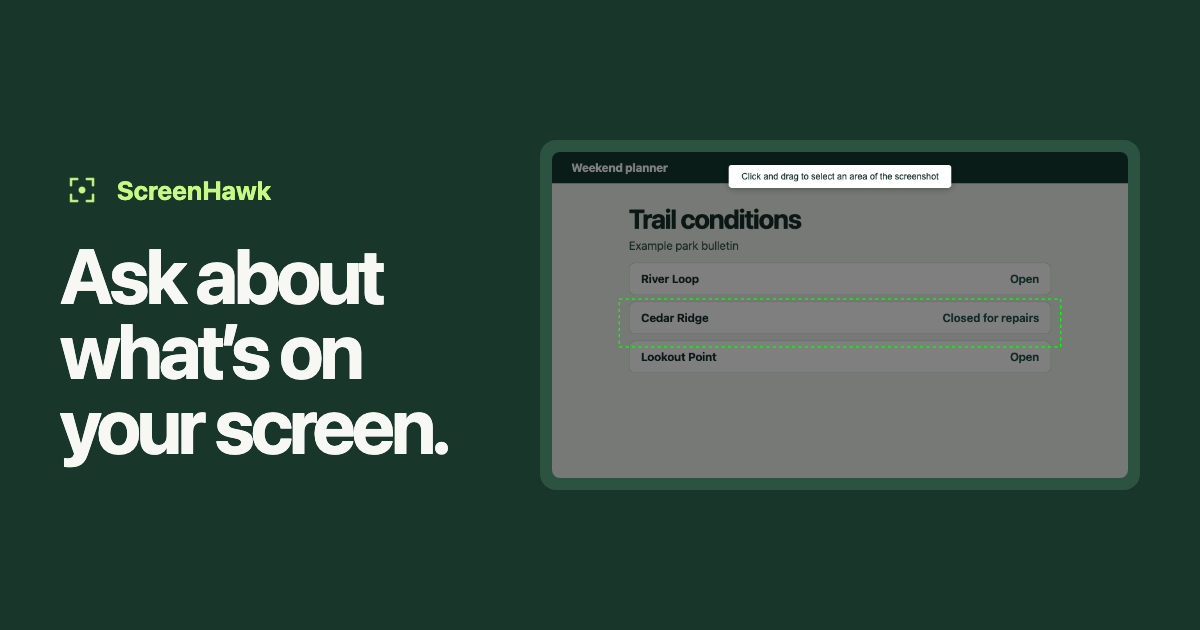
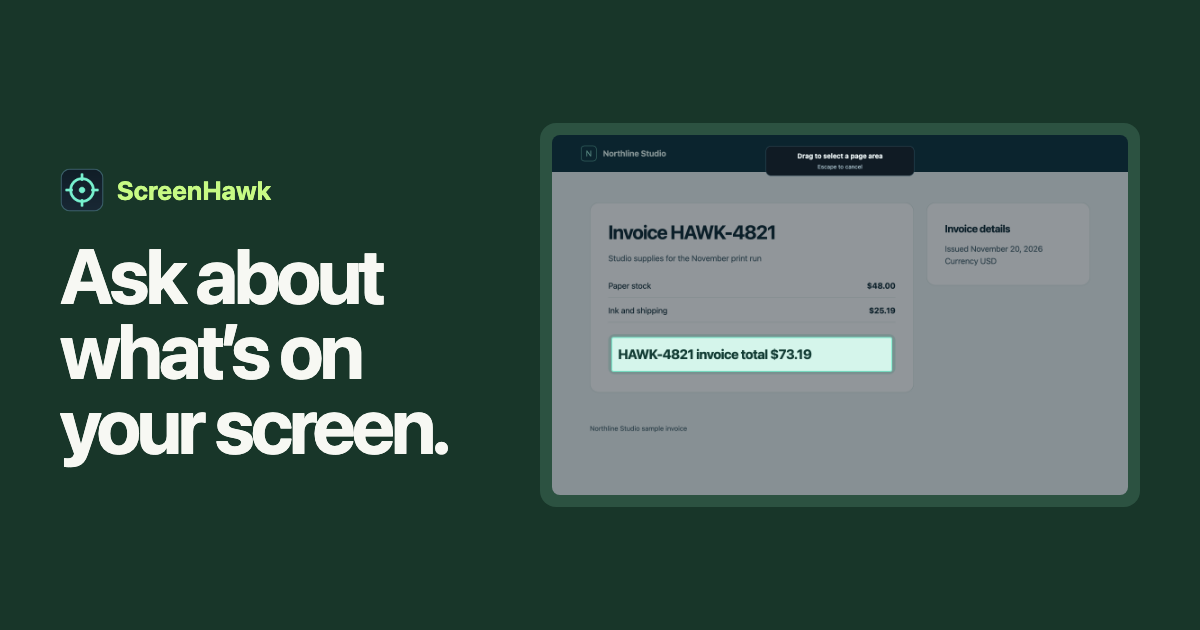
Align the ScreenHawk site with the release extension

Changed region(s): [[0.4317, 0.181, 0.9558, 0.8143], [0.0308, 0.2714, 0.0925, 0.3317]]

diff --git a/site/index.html b/site/index.html
@@ -47,7 +47,7 @@
       <figure class="shot">
         <div class="window">
           <div class="window-bar" aria-hidden="true"><span></span><span></span><span></span></div>
-          <img src="/assets/select.png" width="900" height="510" alt="ScreenHawk selection box around the Cedar Ridge trail status on an example page" fetchpriority="high">
+          <img src="/assets/screenshots/01-area-select.png" width="1280" height="800" alt="ScreenHawk selection box on an example page" fetchpriority="high">
         </div>
         <figcaption>Drag a box around the part of the page you want to ask about.</figcaption>
       </figure>
@@ -68,17 +68,37 @@
       <div class="wrap split">
         <div class="copy">
           <h2>Bring your own OpenAI key</h2>
-          <p>Save your OpenAI API key in ScreenHawk’s options. The key stays in local extension storage. Your browser uses it to send the selected image and your question directly to OpenAI when you submit.</p>
+          <p>Save your OpenAI API key in ScreenHawk’s options. The key stays in local extension storage. The default model is GPT-4.1 nano. Your browser uses it to send the selected image and your question directly to OpenAI when you submit.</p>
           <h3>What does it cost?</h3>
-          <p>You pay OpenAI directly, usually fractions of a cent for a small selection and short question. The model, image size, and answer length affect the price. See <a href="https://openai.com/api/pricing/">OpenAI API pricing</a>.</p>
+          <p>You pay OpenAI directly, based on your API usage. The model, image size, and answer length affect the price. See <a href="https://openai.com/api/pricing/">OpenAI API pricing</a>.</p>
         </div>
         <figure class="shot">
           <div class="window">
             <div class="window-bar" aria-hidden="true"><span></span><span></span><span></span></div>
-            <img src="/assets/question.png" width="900" height="510" alt="ScreenHawk question dialog containing the question Which of these trails is closed?" loading="lazy">
+            <img src="/assets/screenshots/02-prompt.png" width="1280" height="800" alt="ScreenHawk question dialog over the selected area" loading="lazy">
           </div>
           <figcaption>Type your question after making a selection.</figcaption>
         </figure>
+      </div>
+    </section>
+
+    <section class="section" aria-labelledby="extension-views">
+      <div class="wrap">
+        <h2 id="extension-views">Answers and settings</h2>
+        <div class="screenshots">
+          <figure class="shot">
+            <div class="window"><img src="/assets/screenshots/03-answer.png" width="1280" height="800" alt="An answer displayed over the page where the question started" loading="lazy"></div>
+            <figcaption>Read the answer on the same page.</figcaption>
+          </figure>
+          <figure class="shot">
+            <div class="window"><img src="/assets/screenshots/04-options.png" width="1280" height="800" alt="ScreenHawk options with a masked key field and a model field" loading="lazy"></div>
+            <figcaption>Set your API key and model.</figcaption>
+          </figure>
+          <figure class="shot">
+            <div class="window"><img src="/assets/screenshots/05-shortcut.png" width="1280" height="800" alt="Chrome’s extension shortcuts page showing the ScreenHawk capture command" loading="lazy"></div>
+            <figcaption>Set a capture shortcut in Chrome.</figcaption>
+          </figure>
+        </div>
       </div>
     </section>
 

diff --git a/site/privacy.html b/site/privacy.html
@@ -38,19 +38,18 @@
     <p>Rodney Gainous Jr publishes ScreenHawk. ScreenHawk has no account, developer server, or analytics. This website uses no analytics or cookies.</p>
 
     <h2>On your device</h2>
-    <p>ScreenHawk stores your OpenAI API key only on this device in <code>chrome.storage.local</code>. Your browser captures the visible tab and crops the image to the area you select.</p>
+    <p>ScreenHawk stores your own OpenAI API key and model choice on this device in <code>chrome.storage.local</code>. The default model is <code>gpt-4.1-nano</code>. When you start a capture, Chrome captures the visible tab. ScreenHawk crops the image to the area you select on your device.</p>
 
     <h2>What OpenAI receives</h2>
-    <p>When you submit a question, your browser sends the selected screenshot area and your question directly to <code>api.openai.com</code> using your own API key. The response appears on your tab. <a href="https://openai.com/policies/privacy-policy/">OpenAI’s privacy policy</a> applies to processing by OpenAI.</p>
+    <p>When you submit, ScreenHawk sends only the selected crop and your typed question as content directly to <code>api.openai.com</code>. The request includes your chosen model and uses your own API key for authorization. The answer appears only on the page where you started the capture. <a href="https://openai.com/policies/privacy-policy/">OpenAI’s privacy policy</a> applies to processing by OpenAI.</p>
     <p>Rodney Gainous Jr does not receive, sell, or share your key, screenshots, or questions.</p>
 
     <h2>Chrome permissions</h2>
     <ul id="permissions">
       <li><strong><code>activeTab</code></strong> gives ScreenHawk temporary access to the tab where you start a capture.</li>
-      <li><strong><code>scripting</code></strong> lets ScreenHawk open the selection and question interface on a tab.</li>
-      <li><strong><code>tabs</code></strong> lets ScreenHawk find the active tab for capture and show the answer there.</li>
-      <li><strong><code>storage</code></strong> saves your OpenAI API key locally.</li>
-      <li><strong><code>&lt;all_urls&gt;</code></strong> lets the selection interface run on regular web pages and allows requests to OpenAI.</li>
+      <li><strong><code>scripting</code></strong> loads the selection, question, and answer interface on demand after you start a capture.</li>
+      <li><strong><code>storage</code></strong> saves your OpenAI API key and model choice on this device.</li>
+      <li><strong><code>https://api.openai.com/*</code></strong> lets ScreenHawk send your submitted crop and question directly to OpenAI.</li>
     </ul>
 
     <h2>Remove your data</h2>

diff --git a/site/styles.css b/site/styles.css
@@ -51,6 +51,7 @@ figcaption { padding: .6rem .2rem 0; color: var(--muted); font-size: .92rem; }
 .steps li::before { content: counter(steps); display: grid; place-items: center; width: 2rem; height: 2rem; border-radius: 50%; background: var(--dark); color: white; margin-bottom: 1rem; font-weight: 750; }
 .steps p { margin-top: .55rem; color: var(--muted); }
 .split { display: grid; grid-template-columns: minmax(0, 1fr) minmax(0, 1fr); gap: 2.5rem 4rem; align-items: center; }
+.screenshots { display: grid; grid-template-columns: repeat(3, minmax(0, 1fr)); gap: 1.15rem; margin-top: 1.55rem; }
 .copy p, .copy h3 { margin-top: 1rem; }
 .copy p { color: var(--muted); }
 .faq { max-width: 48rem; }
@@ -71,7 +72,7 @@ code { font-family: ui-monospace, SFMono-Regular, Consolas, monospace; overflow-
 .footer { background: #eaf0e6; border-top: 1px solid var(--line); padding-block: 1.55rem; }
 .footer p { color: var(--muted); }
 @media (max-width: 49rem) {
-  .hero, .split { grid-template-columns: minmax(0, 1fr); }
+  .hero, .split, .screenshots { grid-template-columns: minmax(0, 1fr); }
   .hero h1 { max-width: 13ch; }
   .steps { grid-template-columns: minmax(0, 1fr); }
 }

diff --git a/site/permissions.md b/site/permissions.md
@@ -1,0 +1,10 @@
+# ScreenHawk 1.0.0 permissions
+
+| Manifest permission | Why ScreenHawk needs it |
+| --- | --- |
+| `activeTab` | Temporarily capture the visible tab after the user invokes ScreenHawk. |
+| `scripting` | Inject the packaged selection, question and answer overlay in the current tab on demand. |
+| `storage` | Save the OpenAI API key and model setting in `chrome.storage.local`. |
+| `https://api.openai.com/*` | Send the cropped screenshot and question to the OpenAI Chat Completions endpoint when the user submits. The key is provided in the authorization header only for that endpoint. |
+
+The manifest declares no standing permission to access sites other than the OpenAI API. The API key is accessible only to trusted extension contexts. ScreenHawk uses packaged JavaScript. It has no remote code or analytics.
